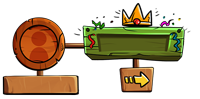
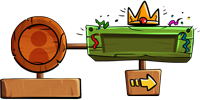
...

diff --git a/www/home.html b/www/home.html
@@ -103,10 +103,10 @@
         height: 140px;
         background-position: center;" ng-repeat="row in $root.games">
         <div style="position: absolute;left: 24%">
-          <img style="width: 40%;margin-top: 10%;border-radius: 50%" src="{{row.second.avatar}}">
+          <img style="width: 40%;margin-top: 18%;border-radius: 50%;margin-left: -2%" src="{{row.second.avatar}}">
         </div>
         <div class="myEText my-overflow-text" style=" position: absolute;left: 20%;
-    margin-top: 105px;
+    margin-top: 110px;
     width: 23%;font-size: medium">
           {{row.second.user}}
         </div>

diff --git a/www/board.html b/www/board.html
@@ -350,7 +350,7 @@
     margin-top: 140px;
     overflow-x: hidden;">
 
-        <div class="row" ng-click="openBoard('challenge')" style="background: url('img/11-game menu4.png');background-size: 60% 100%;background-repeat: no-repeat;
+        <div class="row" ng-click="openBoard('challenge')" style="background: url('img/random.png');background-size: 60% 100%;background-repeat: no-repeat;
     background-position: left;position: relative;z-index: 2;margin-top: 0;
     width: 100%;">
         </div>
